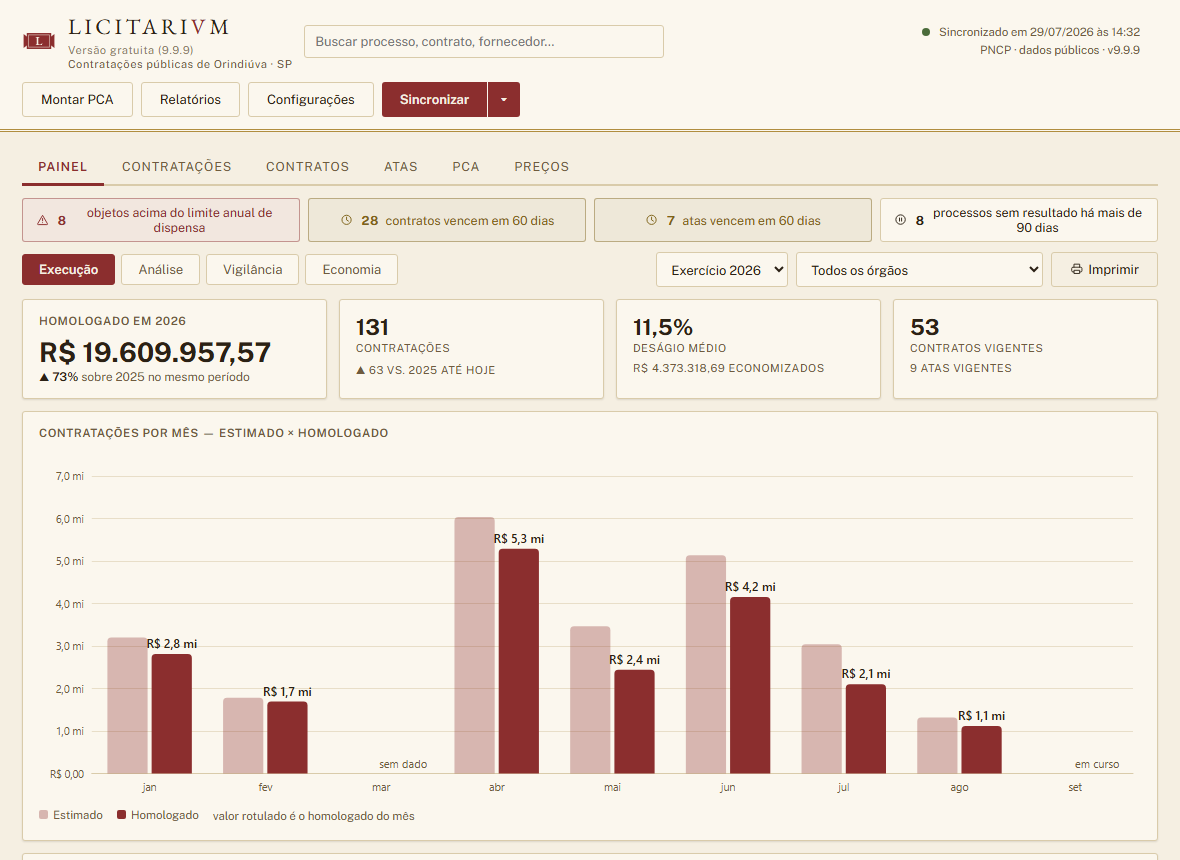
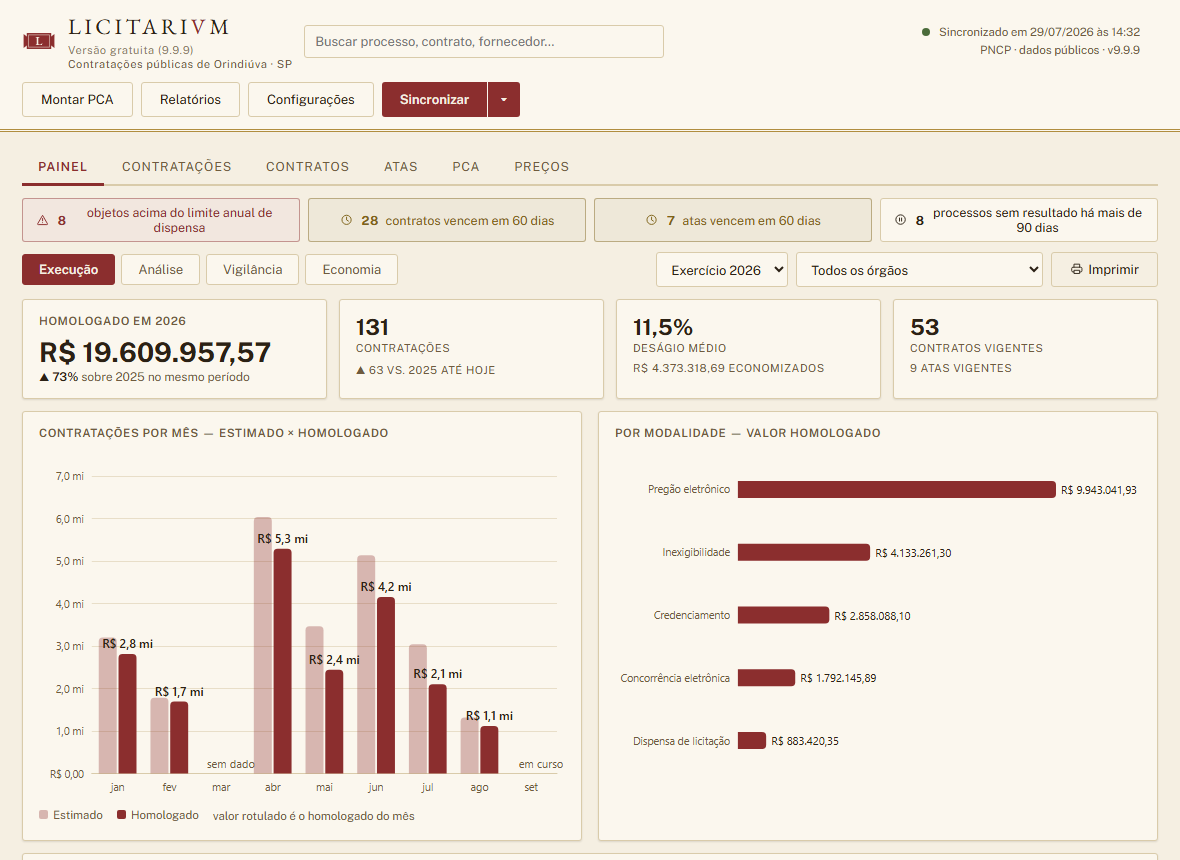
Revert Painel to 2 columns for Execução/Análise/Situação do banco (v2.13.15)
Undoes the 1-column mockup-fidelity change from v2.12.2/v2.12.3.
Chart pairs with chart (.grade-painel back to display:grid); tables
never enter the grid, always full width. Same rule now also applies to
the printed Painel report (A4 landscape has room for two side by side).

Changed region(s): [[0.061, 0.5442, 0.9763, 0.9372], [0.5186, 0.4837, 0.7322, 0.514], [0.9153, 0.8767, 0.9458, 0.907]]

diff --git a/MANUAL.html b/MANUAL.html
@@ -2,11 +2,11 @@
 <html lang="pt-BR">
 <head>
 <meta charset="utf-8">
-<title>Manual Operacional — Licitarium Free v2.13.14</title>
+<title>Manual Operacional — Licitarium Free v2.13.15</title>
 <style>
   @page {
     size: A4; margin: 2cm 1.8cm;
-    @top-center { content: "Licitarium Free v2.13.14 — Manual Operacional"; font-size: 9pt; color: #6f5b3e; }
+    @top-center { content: "Licitarium Free v2.13.15 — Manual Operacional"; font-size: 9pt; color: #6f5b3e; }
     @bottom-right { content: "Página " counter(page) " de " counter(pages);
                     font-size: 9pt; color: #6f5b3e; }
   }
@@ -155,7 +155,7 @@
     <path d="M21.22 61.67Q21.16 61.67 21.12 61.65Q21.09 61.64 21.09 61.61Q21.09 61.58 21.13 61.56Q21.17 61.54 21.23 61.53Q21.35 61.5 21.42 61.41Q21.5 61.32 21.52 61.17Q21.57 60.82 21.61 60.47Q21.64 60.11 21.67 59.79Q21.7 59.47 21.71 59.22Q21.71 59.19 21.71 59.14Q21.71 59.1 21.71 59.06Q21.7 59.01 21.69 58.97Q21.67 58.93 21.62 58.89Q21.55 58.83 21.47 58.81Q21.4 58.78 21.3 58.76Q21.26 58.75 21.23 58.73Q21.2 58.7 21.2 58.67Q21.2 58.63 21.24 58.62Q21.28 58.61 21.34 58.61Q21.4 58.61 21.49 58.61Q21.59 58.62 21.71 58.63Q21.82 58.63 21.93 58.64Q22.03 58.64 22.1 58.64Q22.14 58.64 22.16 58.66Q22.19 58.69 22.2 58.72Q22.22 58.81 22.25 58.89Q22.27 58.98 22.31 59.07L23.02 60.84Q23.03 60.87 23.06 60.88Q23.09 60.88 23.11 60.85L23.93 59.08Q23.96 58.98 23.98 58.88Q24 58.78 24.02 58.71Q24.03 58.65 24.07 58.65H24.25Q24.41 58.64 24.59 58.63Q24.76 58.61 24.85 58.61Q24.89 58.61 24.92 58.62Q24.96 58.63 24.96 58.66Q24.96 58.7 24.93 58.71Q24.9 58.73 24.84 58.76Q24.79 58.77 24.73 58.8Q24.67 58.82 24.62 58.84Q24.55 58.88 24.51 58.93Q24.46 58.98 24.47 59.07Q24.47 59.4 24.48 59.67Q24.5 59.94 24.51 60.19Q24.52 60.43 24.54 60.68Q24.56 60.93 24.57 61.2Q24.58 61.34 24.67 61.41Q24.75 61.49 24.92 61.52Q24.98 61.54 25.02 61.56Q25.05 61.57 25.05 61.61Q25.05 61.64 25.02 61.65Q24.99 61.67 24.93 61.67Q24.82 61.67 24.72 61.66Q24.62 61.65 24.53 61.65Q24.43 61.64 24.33 61.64Q24.24 61.64 24.16 61.65Q24.08 61.65 23.99 61.66Q23.9 61.67 23.78 61.67Q23.73 61.67 23.7 61.65Q23.66 61.64 23.66 61.61Q23.66 61.58 23.7 61.55Q23.73 61.53 23.8 61.52Q23.95 61.5 24 61.43Q24.06 61.36 24.06 61.2Q24.05 60.88 24.04 60.61Q24.04 60.34 24.02 60.07Q24.01 59.8 24 59.51Q23.99 59.46 23.97 59.47Q23.95 59.47 23.93 59.51L22.93 61.66Q22.92 61.7 22.88 61.7Q22.84 61.69 22.83 61.66Q22.63 61.12 22.41 60.59Q22.19 60.07 21.95 59.5Q21.94 59.47 21.91 59.47Q21.89 59.47 21.88 59.51Q21.85 59.8 21.83 60.07Q21.8 60.34 21.79 60.61Q21.78 60.88 21.78 61.17Q21.78 61.3 21.86 61.39Q21.94 61.49 22.09 61.52Q22.16 61.54 22.2 61.55Q22.24 61.57 22.24 61.61Q22.24 61.64 22.2 61.65Q22.16 61.67 22.11 61.67Q21.99 61.67 21.92 61.66Q21.86 61.65 21.81 61.65Q21.75 61.65 21.66 61.65Q21.57 61.65 21.51 61.65Q21.44 61.66 21.37 61.66Q21.3 61.67 21.22 61.67ZM25.84 61.67Q25.78 61.67 25.75 61.65Q25.72 61.64 25.72 61.61Q25.72 61.58 25.75 61.56Q25.79 61.54 25.86 61.53Q25.97 61.5 26.05 61.41Q26.13 61.32 26.15 61.17Q26.19 60.82 26.23 60.47Q26.27 60.11 26.3 59.79Q26.32 59.47 26.33 59.22Q26.34 59.19 26.34 59.14Q26.34 59.1 26.33 59.06Q26.33 59.01 26.31 58.97Q26.3 58.93 26.25 58.89Q26.17 58.83 26.1 58.81Q26.03 58.78 25.93 58.76Q25.88 58.75 25.85 58.73Q25.82 58.7 25.82 58.67Q25.82 58.63 25.86 58.62Q25.91 58.61 25.97 58.61Q26.02 58.61 26.12 58.61Q26.22 58.62 26.33 58.63Q26.45 58.63 26.56 58.64Q26.66 58.64 26.73 58.64Q26.76 58.64 26.79 58.66Q26.82 58.69 26.82 58.72Q26.85 58.81 26.88 58.89Q26.9 58.98 26.93 59.07L27.65 60.84Q27.66 60.87 27.69 60.88Q27.72 60.88 27.73 60.85L28.56 59.08Q28.58 58.98 28.61 58.88Q28.63 58.78 28.64 58.71Q28.66 58.65 28.7 58.65H28.88Q29.04 58.64 29.21 58.63Q29.39 58.61 29.48 58.61Q29.51 58.61 29.55 58.62Q29.59 58.63 29.59 58.66Q29.59 58.7 29.56 58.71Q29.53 58.73 29.47 58.76Q29.42 58.77 29.36 58.8Q29.3 58.82 29.25 58.84Q29.17 58.88 29.13 58.93Q29.09 58.98 29.09 59.07Q29.1 59.4 29.11 59.67Q29.12 59.94 29.14 60.19Q29.15 60.43 29.17 60.68Q29.18 60.93 29.2 61.2Q29.21 61.34 29.3 61.41Q29.38 61.49 29.54 61.52Q29.61 61.54 29.65 61.56Q29.68 61.57 29.68 61.61Q29.68 61.64 29.65 61.65Q29.61 61.67 29.56 61.67Q29.44 61.67 29.34 61.66Q29.25 61.65 29.15 61.65Q29.06 61.64 28.96 61.64Q28.87 61.64 28.79 61.65Q28.71 61.65 28.62 61.66Q28.53 61.67 28.41 61.67Q28.36 61.67 28.32 61.65Q28.29 61.64 28.29 61.61Q28.29 61.58 28.32 61.55Q28.36 61.53 28.43 61.52Q28.57 61.5 28.63 61.43Q28.68 61.36 28.68 61.2Q28.68 60.88 28.67 60.61Q28.66 60.34 28.65 60.07Q28.64 59.8 28.63 59.51Q28.62 59.46 28.6 59.47Q28.58 59.47 28.56 59.51L27.56 61.66Q27.55 61.7 27.51 61.7Q27.47 61.69 27.46 61.66Q27.26 61.12 27.04 60.59Q26.82 60.07 26.58 59.5Q26.57 59.47 26.54 59.47Q26.52 59.47 26.51 59.51Q26.48 59.8 26.45 60.07Q26.43 60.34 26.42 60.61Q26.41 60.88 26.41 61.17Q26.41 61.3 26.49 61.39Q26.57 61.49 26.72 61.52Q26.79 61.54 26.83 61.55Q26.87 61.57 26.87 61.61Q26.87 61.64 26.83 61.65Q26.79 61.67 26.74 61.67Q26.61 61.67 26.55 61.66Q26.48 61.65 26.43 61.65Q26.38 61.65 26.29 61.65Q26.2 61.65 26.13 61.65Q26.07 61.66 26 61.66Q25.93 61.67 25.84 61.67ZM30.37 61.67Q30.31 61.67 30.27 61.66Q30.23 61.65 30.23 61.61Q30.23 61.58 30.27 61.56Q30.31 61.54 30.37 61.51Q30.46 61.49 30.57 61.44Q30.67 61.38 30.79 61.29Q30.9 61.2 31 61.07L31.58 60.35Q31.63 60.28 31.64 60.21Q31.66 60.14 31.59 60.05L30.96 59.16Q30.86 59.03 30.79 58.95Q30.71 58.87 30.63 58.83Q30.56 58.8 30.48 58.77Q30.41 58.75 30.37 58.73Q30.34 58.71 30.34 58.67Q30.34 58.64 30.37 58.63Q30.41 58.62 30.46 58.62Q30.61 58.62 30.81 58.63Q31.01 58.64 31.2 58.64Q31.34 58.64 31.47 58.63Q31.61 58.62 31.7 58.62Q31.75 58.62 31.79 58.64Q31.83 58.65 31.83 58.68Q31.83 58.72 31.79 58.74Q31.75 58.76 31.69 58.78Q31.56 58.81 31.5 58.84Q31.44 58.87 31.44 58.93Q31.44 59 31.56 59.18L31.99 59.77Q32.04 59.84 32.07 59.84Q32.1 59.84 32.14 59.78L32.59 59.18Q32.65 59.1 32.68 59.04Q32.71 58.98 32.71 58.93Q32.71 58.88 32.66 58.84Q32.61 58.8 32.5 58.78Q32.46 58.77 32.4 58.74Q32.35 58.72 32.35 58.68Q32.35 58.65 32.39 58.64Q32.43 58.63 32.49 58.63Q32.56 58.63 32.62 58.63Q32.68 58.63 32.74 58.63Q32.81 58.64 32.88 58.64Q33.02 58.64 33.15 58.62Q33.28 58.61 33.39 58.61Q33.45 58.61 33.49 58.62Q33.53 58.63 33.53 58.67Q33.53 58.7 33.49 58.72Q33.45 58.74 33.38 58.76Q33.26 58.79 33.12 58.93Q32.97 59.06 32.85 59.21L32.28 59.9Q32.22 59.97 32.21 60.01Q32.2 60.04 32.23 60.1L32.97 61.16Q33.06 61.29 33.18 61.39Q33.29 61.48 33.41 61.51Q33.48 61.53 33.52 61.55Q33.57 61.58 33.57 61.61Q33.57 61.64 33.53 61.66Q33.49 61.67 33.44 61.67Q33.33 61.67 33.21 61.66Q33.08 61.66 32.94 61.65Q32.81 61.64 32.69 61.64Q32.55 61.64 32.42 61.65Q32.29 61.65 32.19 61.65Q32.13 61.65 32.09 61.64Q32.05 61.62 32.05 61.59Q32.05 61.56 32.1 61.53Q32.15 61.51 32.2 61.5Q32.28 61.48 32.35 61.43Q32.42 61.38 32.42 61.29Q32.42 61.26 32.41 61.23Q32.4 61.19 32.37 61.16L31.89 60.45Q31.84 60.39 31.81 60.38Q31.78 60.38 31.75 60.43L31.19 61.17Q31.16 61.22 31.14 61.26Q31.13 61.3 31.13 61.33Q31.14 61.39 31.19 61.44Q31.25 61.49 31.34 61.51Q31.41 61.52 31.45 61.54Q31.49 61.57 31.49 61.6Q31.49 61.63 31.45 61.64Q31.42 61.66 31.36 61.66Q31.27 61.66 31.15 61.65Q31.03 61.65 30.92 61.65Q30.77 61.65 30.63 61.66Q30.49 61.67 30.37 61.67ZM34.14 61.67Q34.08 61.67 34.04 61.66Q34 61.65 34 61.61Q34 61.58 34.04 61.56Q34.08 61.54 34.14 61.51Q34.23 61.49 34.34 61.44Q34.44 61.38 34.56 61.29Q34.67 61.2 34.77 61.07L35.35 60.35Q35.4 60.28 35.41 60.21Q35.43 60.14 35.36 60.05L34.73 59.16Q34.63 59.03 34.56 58.95Q34.48 58.87 34.4 58.83Q34.33 58.8 34.25 58.77Q34.18 58.75 34.14 58.73Q34.11 58.71 34.11 58.67Q34.11 58.64 34.14 58.63Q34.18 58.62 34.23 58.62Q34.38 58.62 34.58 58.63Q34.78 58.64 34.97 58.64Q35.11 58.64 35.24 58.63Q35.38 58.62 35.47 58.62Q35.52 58.62 35.56 58.64Q35.6 58.65 35.6 58.68Q35.6 58.72 35.56 58.74Q35.52 58.76 35.46 58.78Q35.33 58.81 35.27 58.84Q35.21 58.87 35.21 58.93Q35.21 59 35.33 59.18L35.76 59.77Q35.81 59.84 35.84 59.84Q35.87 59.84 35.91 59.78L36.36 59.18Q36.42 59.1 36.45 59.04Q36.48 58.98 36.48 58.93Q36.48 58.88 36.43 58.84Q36.38 58.8 36.27 58.78Q36.23 58.77 36.18 58.74Q36.12 58.72 36.12 58.68Q36.12 58.65 36.16 58.64Q36.2 58.63 36.26 58.63Q36.33 58.63 36.39 58.63Q36.45 58.63 36.51 58.63Q36.58 58.64 36.65 58.64Q36.79 58.64 36.92 58.62Q37.05 58.61 37.16 58.61Q37.22 58.61 37.26 58.62Q37.3 58.63 37.3 58.67Q37.3 58.7 37.26 58.72Q37.22 58.74 37.15 58.76Q37.03 58.79 36.89 58.93Q36.74 59.06 36.62 59.21L36.05 59.9Q35.99 59.97 35.98 60.01Q35.97 60.04 36 60.1L36.74 61.16Q36.83 61.29 36.95 61.39Q37.06 61.48 37.18 61.51Q37.25 61.53 37.29 61.55Q37.34 61.58 37.34 61.61Q37.34 61.64 37.3 61.66Q37.26 61.67 37.21 61.67Q37.1 61.67 36.98 61.66Q36.85 61.66 36.71 61.65Q36.58 61.64 36.46 61.64Q36.32 61.64 36.19 61.65Q36.06 61.65 35.96 61.65Q35.9 61.65 35.86 61.64Q35.82 61.62 35.82 61.59Q35.82 61.56 35.87 61.53Q35.92 61.51 35.97 61.5Q36.05 61.48 36.12 61.43Q36.2 61.38 36.2 61.29Q36.2 61.26 36.18 61.23Q36.17 61.19 36.14 61.16L35.66 60.45Q35.61 60.39 35.58 60.38Q35.55 60.38 35.52 60.43L34.96 61.17Q34.93 61.22 34.91 61.26Q34.9 61.3 34.9 61.33Q34.91 61.39 34.96 61.44Q35.02 61.49 35.11 61.51Q35.18 61.52 35.22 61.54Q35.26 61.57 35.26 61.6Q35.26 61.63 35.22 61.64Q35.19 61.66 35.13 61.66Q35.04 61.66 34.92 61.65Q34.8 61.65 34.69 61.65Q34.54 61.65 34.4 61.66Q34.26 61.67 34.14 61.67ZM39.32 61.71Q39.27 61.71 39.25 61.66Q39.23 61.61 39.19 61.51Q39.16 61.41 39.13 61.34L38.26 59.11Q38.21 58.99 38.14 58.9Q38.06 58.81 37.93 58.78Q37.87 58.76 37.83 58.74Q37.79 58.71 37.79 58.68Q37.79 58.65 37.83 58.63Q37.86 58.62 37.92 58.62Q38 58.62 38.1 58.63Q38.2 58.63 38.31 58.63Q38.42 58.64 38.52 58.64Q38.61 58.64 38.72 58.63Q38.82 58.63 38.92 58.63Q39.02 58.62 39.08 58.62Q39.13 58.62 39.17 58.64Q39.21 58.65 39.21 58.68Q39.21 58.72 39.17 58.74Q39.13 58.77 39.07 58.78Q38.93 58.79 38.85 58.84Q38.78 58.88 38.78 58.96Q38.78 59.02 38.79 59.07Q38.81 59.12 38.82 59.15L39.46 60.88Q39.47 60.9 39.48 60.91Q39.5 60.91 39.51 60.87L40.11 59.3Q40.2 59.05 40.13 58.93Q40.06 58.8 39.89 58.78Q39.83 58.77 39.79 58.74Q39.74 58.72 39.74 58.68Q39.74 58.65 39.78 58.64Q39.82 58.63 39.88 58.63Q39.95 58.63 40.02 58.63Q40.09 58.63 40.17 58.63Q40.24 58.64 40.33 58.64Q40.47 58.64 40.61 58.63Q40.75 58.62 40.85 58.62Q40.91 58.62 40.95 58.63Q40.99 58.64 40.99 58.68Q40.99 58.71 40.95 58.73Q40.91 58.75 40.84 58.77Q40.68 58.81 40.58 58.92Q40.47 59.04 40.41 59.19L39.59 61.15Q39.56 61.23 39.52 61.32Q39.49 61.41 39.45 61.5Q39.42 61.59 39.38 61.66Q39.38 61.69 39.36 61.7Q39.34 61.71 39.32 61.71ZM41.59 61.67Q41.54 61.67 41.51 61.65Q41.47 61.64 41.47 61.61Q41.47 61.55 41.61 61.52Q41.78 61.49 41.87 61.42Q41.95 61.35 41.95 61.19V59.1Q41.95 58.94 41.89 58.87Q41.82 58.81 41.64 58.77Q41.51 58.75 41.51 58.68Q41.51 58.65 41.54 58.63Q41.58 58.62 41.63 58.62Q41.75 58.62 41.84 58.63Q41.93 58.63 42.02 58.63Q42.11 58.64 42.21 58.64Q42.31 58.64 42.4 58.63Q42.48 58.63 42.57 58.63Q42.66 58.62 42.78 58.62Q42.83 58.62 42.86 58.63Q42.9 58.65 42.9 58.68Q42.9 58.71 42.86 58.74Q42.83 58.76 42.76 58.77Q42.59 58.81 42.51 58.88Q42.44 58.94 42.44 59.1V61.19Q42.44 61.35 42.53 61.42Q42.61 61.48 42.79 61.52Q42.86 61.54 42.89 61.56Q42.92 61.57 42.92 61.61Q42.92 61.64 42.89 61.65Q42.86 61.67 42.81 61.67Q42.69 61.67 42.59 61.66Q42.5 61.65 42.41 61.65Q42.32 61.64 42.21 61.64Q42.1 61.64 42.01 61.65Q41.91 61.65 41.81 61.66Q41.71 61.67 41.59 61.67Z" fill="var(--text)" opacity=".85"/>
   </svg>
   <h1 class="mark">LICITARI<b>V</b>M</h1>
-  <div class="subtitulo">MANUAL DO USUÁRIO · VERSÃO 2.13.14</div>
+  <div class="subtitulo">MANUAL DO USUÁRIO · VERSÃO 2.13.15</div>
 </header>
 
 <h2>1. O que é o Licitarium</h2>

diff --git a/ui/painel.js b/ui/painel.js
@@ -1182,8 +1182,10 @@ function vistaExecucao(d) {
       <div class="r" style="margin-top:8px">${c.atas_vigentes} atas vigentes</div>
     </div>
   </div>
-  ${cartaoGraf(`Contratações por mês — estimado × homologado`, "meses")}
-  ${cartaoGraf("Por modalidade — valor homologado", "modalidades")}
+  <div class="grade-painel">
+    ${cartaoGraf(`Contratações por mês — estimado × homologado`, "meses")}
+    ${cartaoGraf("Por modalidade — valor homologado", "modalidades")}
+  </div>
   ${cartao("Vence nos próximos 90 dias", tabelaVencendo(d.execucao.vencendo),
            `<span class="so-tela">Clicar leva à aba correspondente.</span>`)}
   ${cartao(`Onde o dinheiro foi — fornecedores de ${ano}`,
@@ -1239,18 +1241,22 @@ function tabelaFornecedores(itens, total90) {
 function vistaAnalise(d) {
   const a = d.analise;
   return `
-  ${cartaoGraf(`Do edital ao contrato — mesmo conjunto de contratações de ${d.ano}`,
-           "funil",
-           `${a.funil.publicadas - a.funil.com_resultado} publicadas ainda sem
-            resultado registrado no PNCP.`)}
-  ${cartaoGraf(`Valor homologado acumulado — ${d.ano - 2} a ${d.ano}`, "series",
-           `O ano corrente em destaque; os anteriores ficam como contexto — a
-            comparação é com o mesmo mês, não com o total do ano.`)}
-  ${cartaoGraf("Deságio por modalidade — quanto o certame economizou",
-               "desagio")}
-  ${cartaoGraf(`Concentração de fornecedores — ${d.ano}`, "concentracao",
-           `A linha tracejada é a distribuição perfeitamente igual — quanto
-            mais a curva se afasta dela, mais concentrado é o mercado.`)}
+  <div class="grade-painel">
+    ${cartaoGraf(`Do edital ao contrato — mesmo conjunto de contratações de ${d.ano}`,
+             "funil",
+             `${a.funil.publicadas - a.funil.com_resultado} publicadas ainda sem
+              resultado registrado no PNCP.`)}
+    ${cartaoGraf(`Valor homologado acumulado — ${d.ano - 2} a ${d.ano}`, "series",
+             `O ano corrente em destaque; os anteriores ficam como contexto — a
+              comparação é com o mesmo mês, não com o total do ano.`)}
+  </div>
+  <div class="grade-painel">
+    ${cartaoGraf("Deságio por modalidade — quanto o certame economizou",
+                 "desagio")}
+    ${cartaoGraf(`Concentração de fornecedores — ${d.ano}`, "concentracao",
+             `A linha tracejada é a distribuição perfeitamente igual — quanto
+              mais a curva se afasta dela, mais concentrado é o mercado.`)}
+  </div>
   ${cartaoGraf("Quando o município compra — processos por mês e modalidade",
                "calor")}
   ${cartao(`Onde concentra — por órgão`, tabelaPorOrgao(a.por_orgao))}`;

diff --git a/tests-e2e/painel.spec.js b/tests-e2e/painel.spec.js
@@ -256,22 +256,33 @@ test("execução mostra hero, colunas mensais e modalidades",
   await expect(v).toContainText("Por modalidade");
 });
 
-// achado do usuário (2026-09-12): o changelog da fase 3 do handoff dizia
-// "uma coluna, largura total, seguindo o mockup 1a", mas o código nunca
-// tirou o grid de 2 colunas herdado do Painel antigo (.faixa.f-21/.f-11)
-// — mockup 1a é explícito: "cada gráfico e cada tabela ocupa a largura
-// inteira". Mesmo desvio existia em Análise (fase 4, mockup 3a) no par
-// Deságio/Concentração — mantendo os dois gráficos, só tirando o par.
-test("execução e análise não têm mais gráficos/tabelas pareados em 2 colunas",
+// pedido do usuário (2026-09-13): volta atrás da mudança pro mockup do
+// handoff (2026-09-12, v2.12.2/v2.12.3) — gráfico pareia com gráfico de
+// novo (.grade-painel, grid de 2 colunas); tabela nunca entra no par,
+// sempre largura total.
+test("execução e análise pareiam gráfico com gráfico em 2 colunas; tabela fica largura total",
     async ({ page }) => {
-  await expect(page.locator("#p-execucao .faixa.f-21")).toHaveCount(0);
-  await expect(page.locator("#p-execucao .faixa.f-11")).toHaveCount(0);
+  const mesesBox = await page.locator(
+    '#p-execucao [data-graf="meses"]').boundingBox();
+  const modalidadesBox = await page.locator(
+    '#p-execucao [data-graf="modalidades"]').boundingBox();
+  expect(Math.abs(modalidadesBox.y - mesesBox.y)).toBeLessThan(5);
+  expect(modalidadesBox.x).toBeGreaterThan(mesesBox.x + mesesBox.width - 5);
+  const vencendoBox = await page.locator("#p-execucao table").first()
+    .locator("xpath=ancestor::div[contains(@class,'card')][1]").boundingBox();
+  expect(vencendoBox.width).toBeGreaterThan(600);
+
   await page.locator('.subabas button[data-vista="analise"]').click();
-  await expect(page.locator("#p-analise .faixa.f-11")).toHaveCount(0);
-  // os dois gráficos continuam na tela, só que cada um em largura total
-  const v = page.locator("#p-analise");
-  await expect(v).toContainText("Deságio por modalidade");
-  await expect(v).toContainText("Concentração de fornecedores");
+  const funilBox = await page.locator(
+    '#p-analise [data-graf="funil"]').boundingBox();
+  const seriesBox = await page.locator(
+    '#p-analise [data-graf="series"]').boundingBox();
+  expect(Math.abs(seriesBox.y - funilBox.y)).toBeLessThan(5);
+  const desagioBox = await page.locator(
+    '#p-analise [data-graf="desagio"]').boundingBox();
+  const concentracaoBox = await page.locator(
+    '#p-analise [data-graf="concentracao"]').boundingBox();
+  expect(Math.abs(concentracaoBox.y - desagioBox.y)).toBeLessThan(5);
 });
 
 test("fornecedor truncado carrega o nome completo no title",

diff --git a/tests-e2e/precos-situacao.spec.js b/tests-e2e/precos-situacao.spec.js
@@ -54,19 +54,16 @@ test("concentração com muitos fornecedores (>30) ganha zoom (achado do usuári
   expect(temZoom).toBe(true);
 });
 
-test("cartões dos gráficos ficam empilhados em 1 coluna, não lado a lado",
+test("cartões dos gráficos ficam lado a lado em 2 colunas",
     async ({ page }) => {
-  // achado do usuário (2026-09-12): esta tela ainda usava o grid de 2
-  // colunas antigo (.grade-painel) enquanto o resto do app (Painel) já
-  // tinha virado 1 coluna — mesmo espírito da correção de Execução/
-  // Análise, mesmo dia.
+  // pedido do usuário (2026-09-13): volta atrás da mudança pra 1 coluna
+  // (v2.12.3) — gráfico pareia com gráfico de novo.
   await page.locator('button[data-vista-precos="situacao"]').click();
   const anoBox = await page.locator("#painel-grafico-ano").boundingBox();
   const tipoBox = await page.locator("#painel-grafico-tipo").boundingBox();
-  // em 1 coluna, o 2º cartão fica ABAIXO do 1º (mesmo x, y maior), não
-  // ao lado (mesmo y, x maior)
-  expect(tipoBox.y).toBeGreaterThan(anoBox.y + anoBox.height - 5);
-  expect(anoBox.width).toBeGreaterThan(600);   // largura cheia, não metade
+  // em 2 colunas, o 2º cartão fica ao LADO do 1º (mesma linha, x maior)
+  expect(Math.abs(tipoBox.y - anoBox.y)).toBeLessThan(5);
+  expect(tipoBox.x).toBeGreaterThan(anoBox.x + anoBox.width - 5);
 });
 
 test("trocar largura da página redesenha os gráficos no tamanho novo (achado do usuário, 2026-09-13)",

diff --git a/ui/estilo.css b/ui/estilo.css
@@ -793,9 +793,12 @@ details.raw pre { background:var(--surface2); border-radius:var(--radius);
 #pca-kpis .kpi { cursor:default; }
 #pca-kpis .kpi:hover { border-color:var(--border); }
 .topo-painel { display:flex; justify-content:space-between; align-items:center; }
-/* 1 coluna, largura total — mesmo padrão do Painel (handoff Claude
-   Design): cada gráfico/cartão empilhado, nunca 2 lado a lado */
-.grade-painel { display:flex; flex-direction:column; gap:16px; }
+/* 2 colunas (pedido do usuário, 2026-09-13 — volta atrás da mudança pro
+   mockup do handoff, v2.12.2/v2.12.3): gráfico pareia com gráfico e
+   lista pareia com lista; tabela larga (muitas colunas) nunca entra
+   aqui, fica sempre fora do grid, largura total. */
+.grade-painel { display:grid; grid-template-columns:1fr 1fr; gap:16px; }
+@media (max-width:900px) { .grade-painel { grid-template-columns:1fr; } }
 .tit-painel { font-size:12.5px; color:var(--muted); font-weight:600;
               letter-spacing:.04em; text-transform:uppercase;
               margin-bottom:10px; }

diff --git a/relatorios.py b/relatorios.py
@@ -3463,6 +3463,9 @@ _CSS_PAINEL_RESTO = """
   .wk .ev { display:flex; justify-content:space-between; gap:6pt; font-size:8.5pt; }
   .f-21 { grid-template-columns:1.6fr 1fr; }
   .f-11 { grid-template-columns:1fr 1fr; }
+  /* gráfico pareado com gráfico (pedido do usuário, 2026-09-13) — A4
+     paisagem tem largura de sobra pros dois lado a lado */
+  .grade-painel { display:grid; grid-template-columns:1fr 1fr; gap:12pt; }
   .f-3 { grid-template-columns:1fr 1fr 1fr; }
   /* min-width:0 devolve ao grid o direito de apertar o item abaixo do
      min-content (a largura fixa do SVG do ECharts). Sem isso, no papel a

diff --git a/licitarium.py b/licitarium.py
@@ -28,7 +28,7 @@ import pca_builder
 import pncp
 import relatorios
 
-VERSAO = "2.13.14"
+VERSAO = "2.13.15"
 # dentro do exe onefile os arquivos ficam na pasta temporária do bundle;
 # _MEIPASS é o caminho oficial para chegar até eles
 DIR_APP = Path(getattr(sys, "_MEIPASS", Path(__file__).resolve().parent))

diff --git a/CHANGELOG.md b/CHANGELOG.md
@@ -1,5 +1,31 @@
 # Changelog
 
+## 2.13.15 — 2026-09-13
+
+**Mudança — Painel volta a 2 colunas (Execução, Análise, Situação do
+banco)**
+
+Pedido do usuário: volta atrás da mudança pro mockup do handoff Claude
+Design (v2.12.2/v2.12.3, "1 coluna, largura total"). Gráfico pareia com
+gráfico de novo; tabela (linhas longas, muitas colunas) continua sempre
+em largura total, nunca entra no par.
+
+- **Execução**: "Contratações por mês" + "Por modalidade" lado a lado;
+  "Vence em 90 dias", "Onde o dinheiro foi" e "Registrado por ata"
+  continuam cada um em largura total (são tabela/gráfico sem par).
+- **Análise**: "Do edital ao contrato" + "Valor homologado acumulado"
+  num par; "Deságio por modalidade" + "Concentração de fornecedores"
+  em outro; "Quando o município compra" e "Onde concentra — por órgão"
+  seguem sozinhos.
+- **Situação do banco** (Preços): os 4 pares (Preços por ano/Material×
+  serviço, Concentração/lista, Municípios/Itens frequentes,
+  Fornecedores/Unidades) voltam a ficar lado a lado.
+- `.grade-painel` virou `display:grid` de novo (era `flex-direction:
+  column`); mesma regra também entrou no CSS do Painel impresso — papel
+  A4 paisagem tem largura de sobra pros dois gráficos lado a lado.
+
+319 testes Python + 197 testes Playwright verdes.
+
 ## 2.13.14 — 2026-09-13
 
 **Adição — `dataZoom` nos 3 gráficos com eixo sem teto (comparação com
